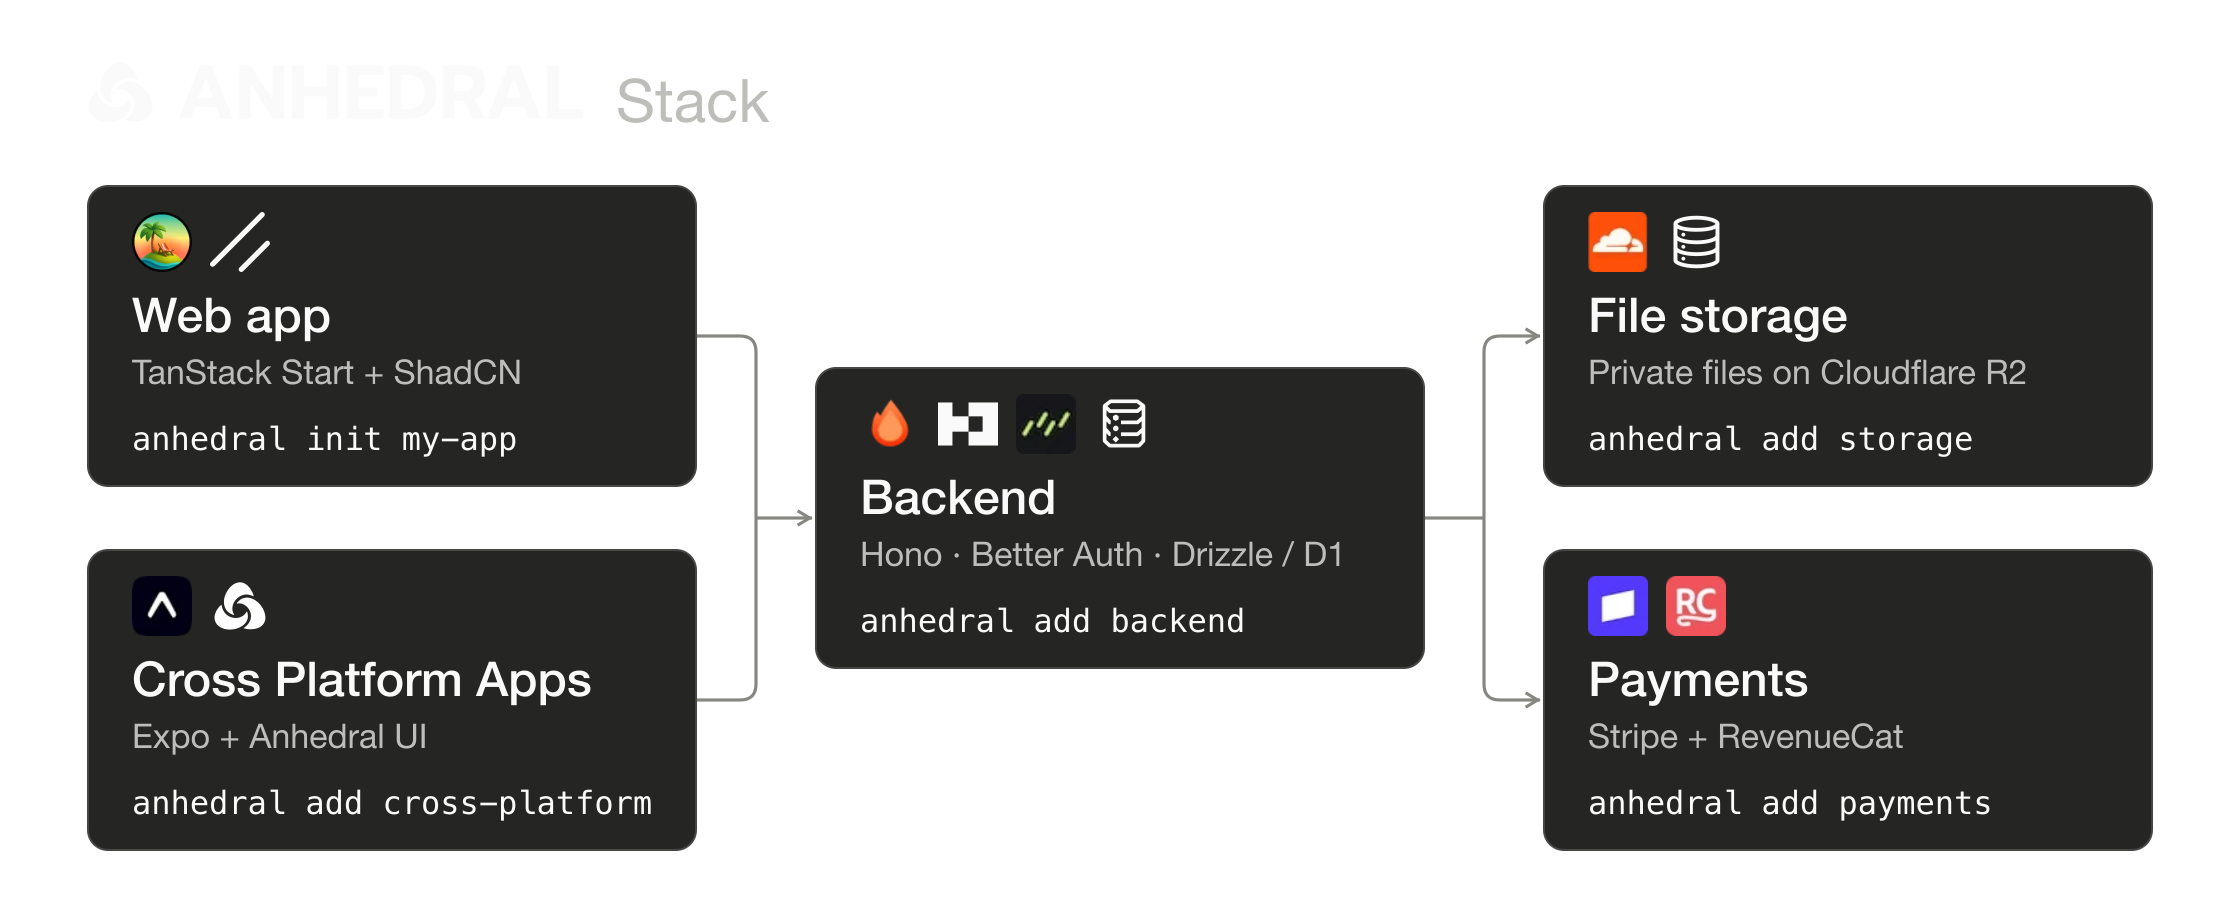
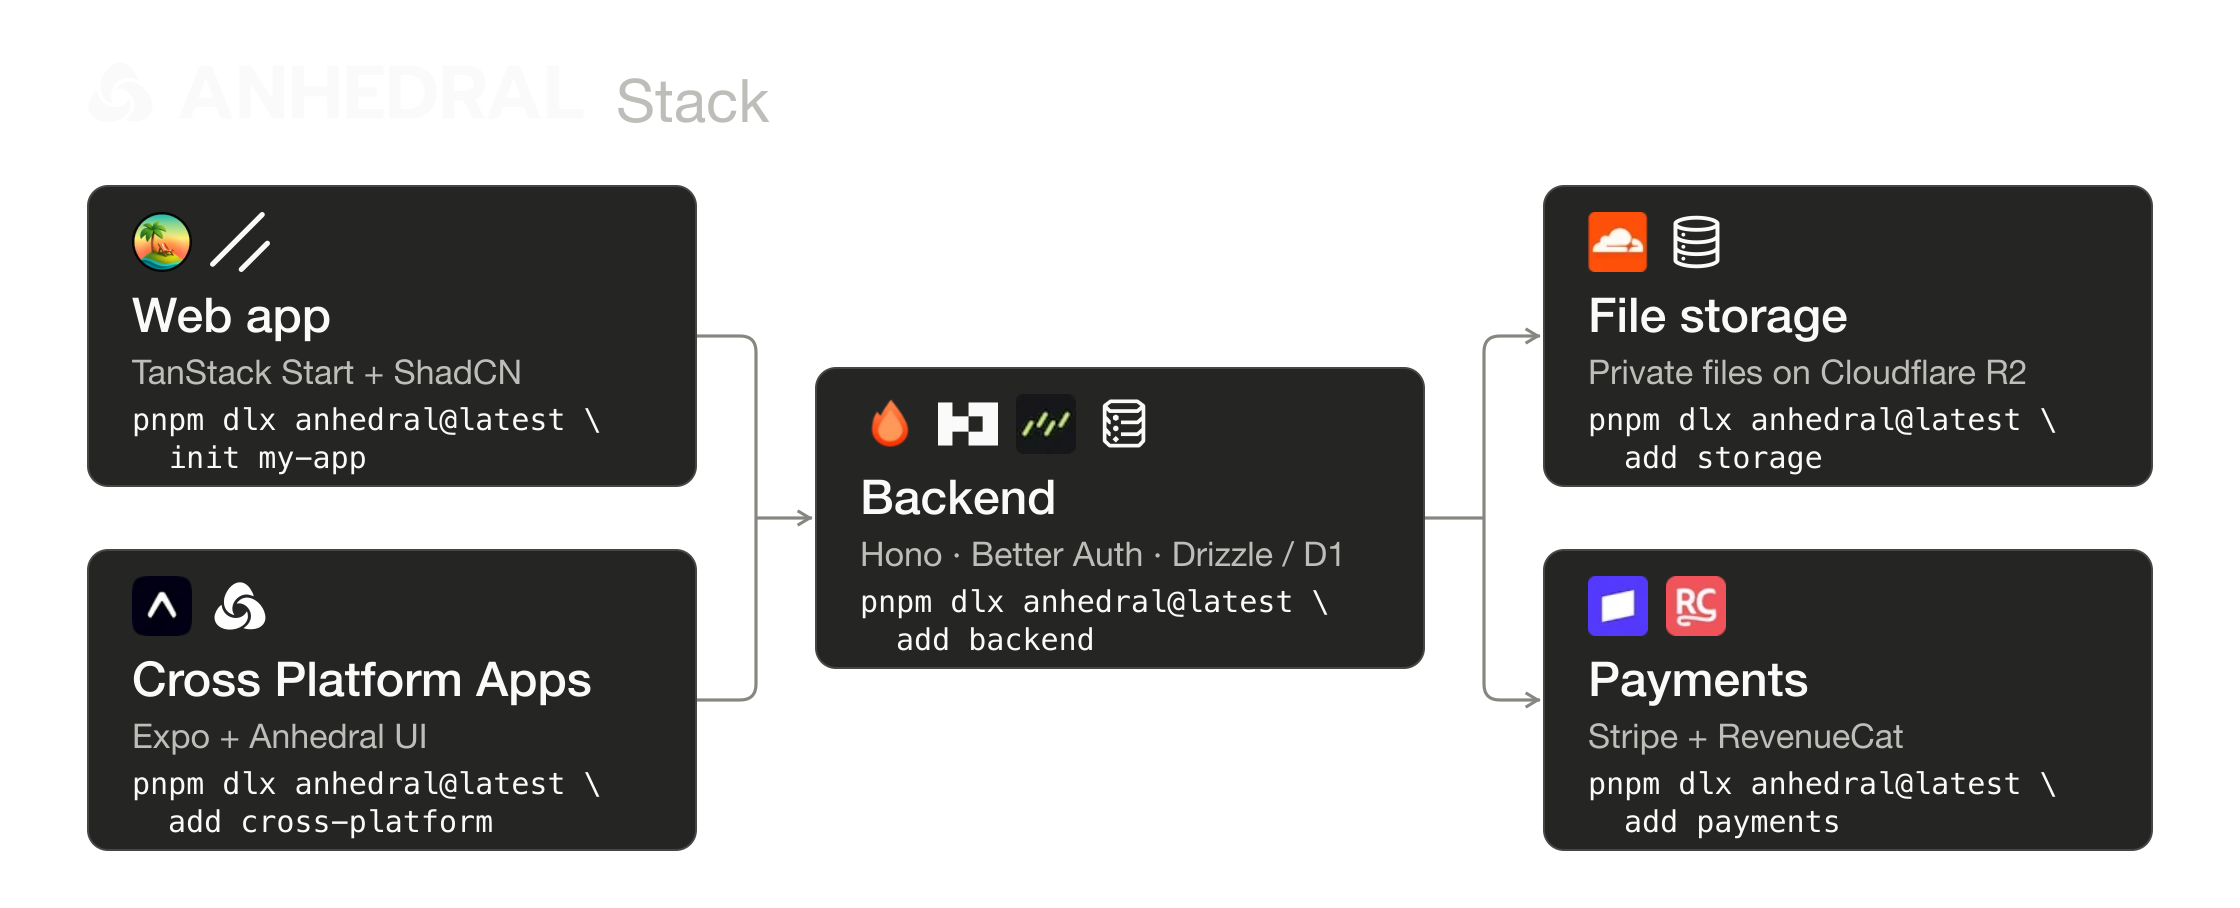
Use pnpm dlx anhedral@latest for every README CLI example

diff --git a/README.md b/README.md
@@ -10,7 +10,7 @@ Build an app one addition at a time. Generated applications are editable source.
   <img src="https://raw.githubusercontent.com/anhedral/anhedral-cli/staging/docs/assets/anhedral-stack-light.png" alt="The CLI creates a TanStack Start web app. The optional backend supports private file storage and subscription payments. An Expo client with Anhedral UI is upcoming.">
 </picture>
 
-**Upcoming** — `anhedral add cross-platform` will add an Expo client with Anhedral UI.
+**Upcoming** — `pnpm dlx anhedral@latest add cross-platform` will add an Expo client with Anhedral UI.
 
 ## How to use
 
@@ -29,7 +29,14 @@ pnpm dlx anhedral@latest add backend
 pnpm dlx anhedral@latest stack list
 ```
 
-In the published 0.22.1 CLI, use `add r2` for storage and `add stripe` for payments. Use `--dry-run` to preview an addition. Compare the [example snapshots](https://github.com/anhedral/anhedral-cli/tree/staging/examples) or follow the [service setup guide](docs/capabilities.md) to configure providers and apply migrations.
+For the storage and payments additions shown above, the published 0.22.1 CLI uses these commands:
+
+```sh
+pnpm dlx anhedral@latest add r2
+pnpm dlx anhedral@latest add stripe
+```
+
+Use `--dry-run` to preview an addition. Compare the [example snapshots](https://github.com/anhedral/anhedral-cli/tree/staging/examples) or follow the [service setup guide](docs/capabilities.md) to configure providers and apply migrations.
 
 Use the CLI directly or through the Codex and Claude Code plugin. To host on Anhedral, sign in, link a project, upload source, and deploy. [Platform workflow](docs/software-factory.md) · [Stack reference](docs/stack-standard.md)
 
